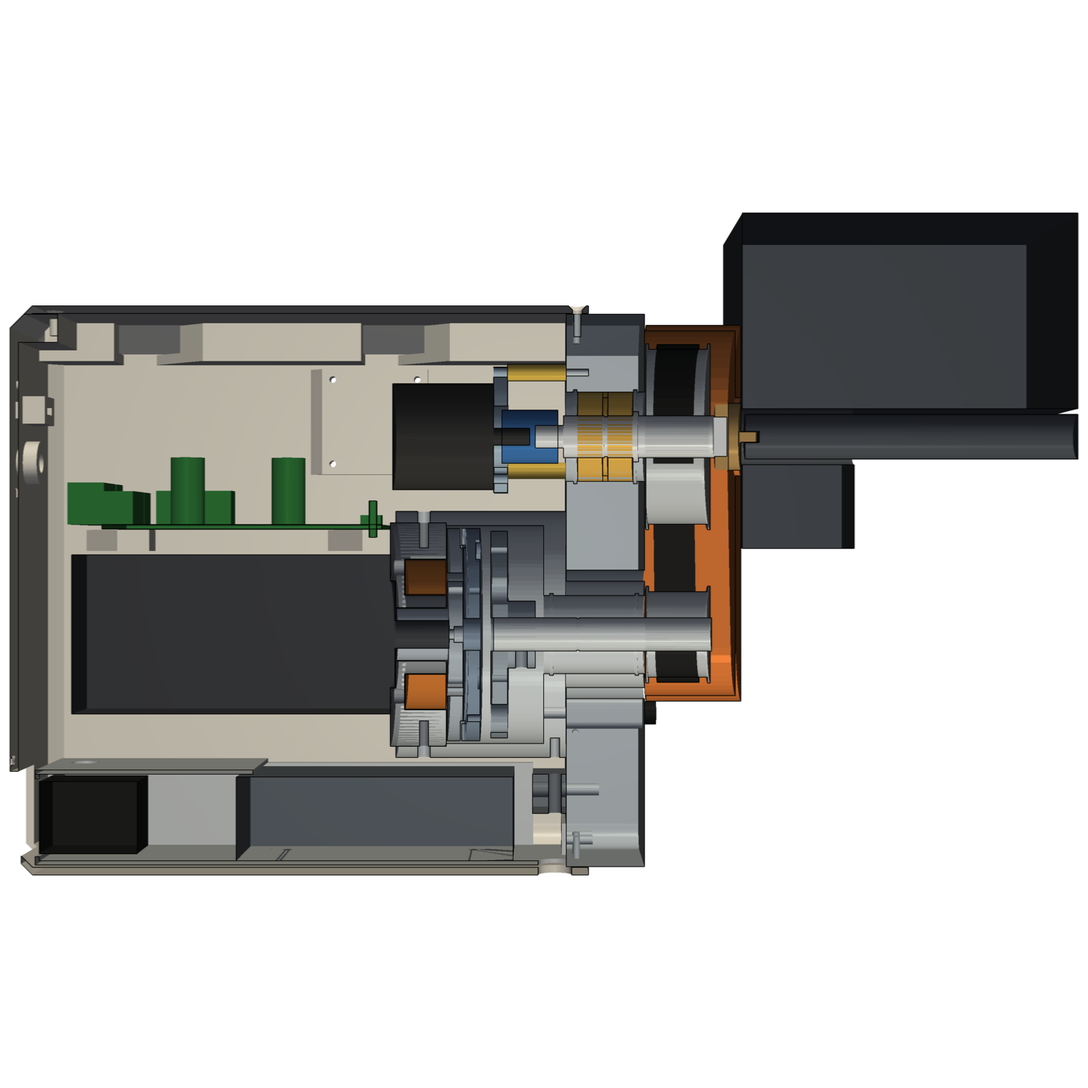
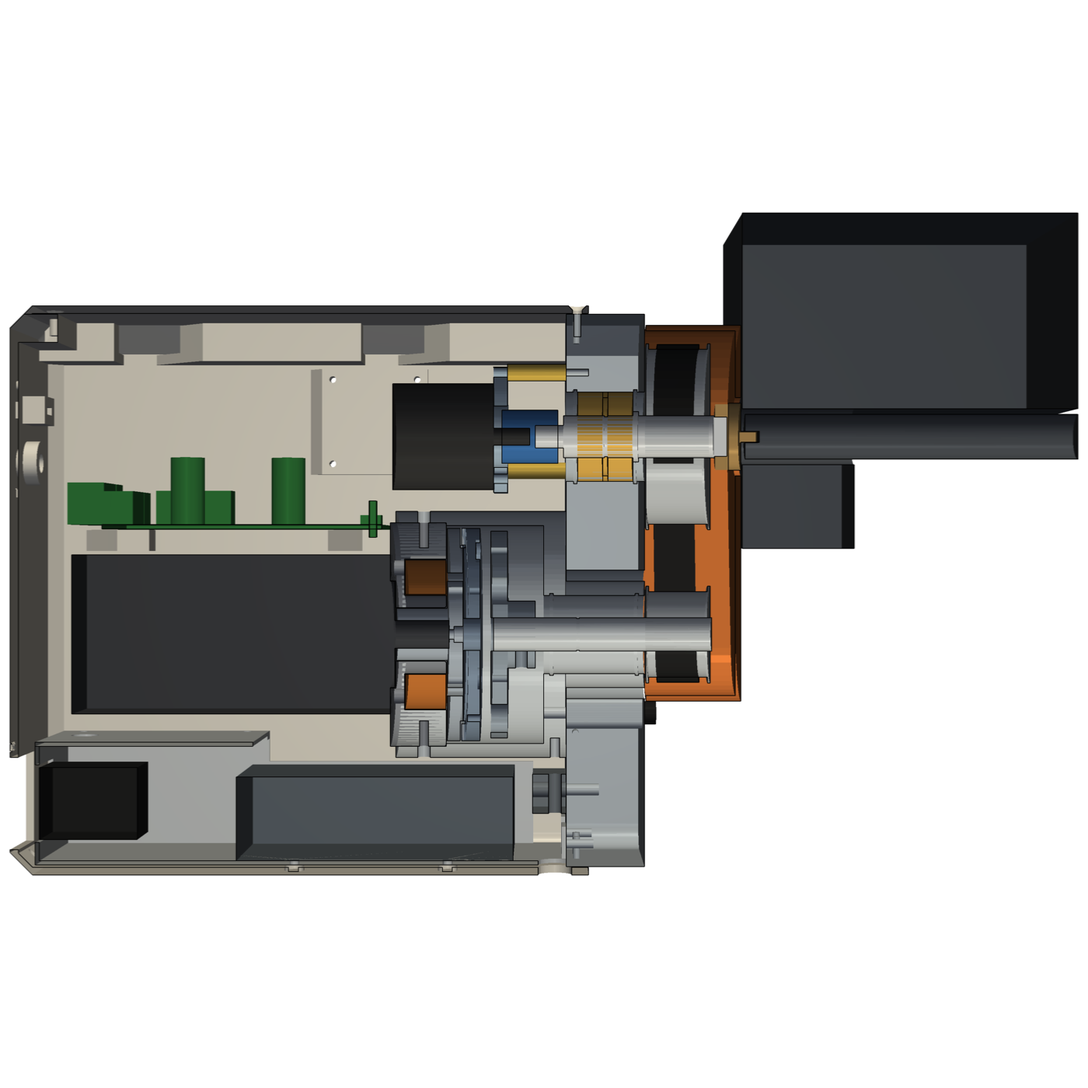
Mains tray review fixes: buildable tray, real LRS-75 geometry, louvred intake, drains, checks
- LRS-75-36 per Mean Well's drawing (99 x 97 x 30, two base M3 holes, max 3 mm): M3x4 button heads in floor pockets
- Tray tabs bolted at x -45/-13, clear of the shell's plate-edge screws and the drawbolt tool path
- Terminal/inlet zone 10 mm higher: inlet flange has 5.0 / 3.5 mm of flat sheet round it; lid on 4 M3 into rivnuts
  in inward-folded wall flanges; tray 104 wide, bottom long edges R8.5 so it fits the corners
- Motor intake as 45° louvre blocks on the back/front walls; 2 drains behind the inlet
- check_feed_unit.py: every plate hole against every other (negative-controlled on the old bolt positions), PSU
  screw heads vs the floor, inlet flange flat margin, tray/lid in the moving-module clearance list
- Notes: power-budget wording (jam at rapid can trip the PSU, safely), 36 V pair 300/500 V, PSU case in the heat test

Changed region(s): [[0.0, 0.645, 0.4607, 0.7371], [0.215, 0.7679, 0.5529, 0.7986], [0.0, 0.7679, 0.1536, 0.7986]]

diff --git a/mechanical/feed_unit/feed_unit.py b/mechanical/feed_unit/feed_unit.py
@@ -66,15 +66,18 @@ class F:
     circlip_land: float = 2.6        # material outside each plate groove (DIN 472-32 minimum edge margin)
     tension_slot: float = 3.0        # +- adjustment of the module along the centre line
     # --- built-in mains: an earthed, folded-aluminium MAINS TRAY under the clutch/motor module holds the 36 V supply
-    # (Mean Well LRS-75-36: 36 V 2.1 A, 99 x 82 x 30, terminals on one 82 mm end, toward the inlet) and a snap-in IEC
+    # (Mean Well LRS-75-36: 36 V 2.1 A, 99 x 97 x 30, case 240A; terminals 1 L, 2 N, 3 FG, 4 -V, 5 +V along one 97 mm
+    # end, toward the inlet; full load to 50 C ambient) and a snap-in IEC
     # C14 inlet (fuse + switch) clipped into the tray's own end face. All 230 V stays inside the earthed tray.
     psu_l: float = 99.0
-    psu_w: float = 82.0
+    psu_w: float = 97.0
     psu_h: float = 30.0
     psu_w0: float = 82.0             # W of the PSU's plate-side end (the tray starts at the plate face, W 63)
     psu_top_gap: float = 3.0         # tray top under the clutch cover with the module at the bottom of its tension slot
     tray_t: float = 1.5              # 5052 / 1050 aluminium sheet, folded
-    tray_side_gap: float = 4.0       # PSU side -> tray wall (convection + wiring)
+    tray_side_gap: float = 2.0       # PSU side -> tray wall
+    psu_holes: tuple = ((20.5, 45.5), (75.5, 45.5))   # base M3 (max 3 mm deep): from the terminal end, from one long edge
+    term_zone_rise: float = 10.0     # tray walls, end face and lid are this much higher over the terminal/inlet zone
     inlet_cut: tuple = (47.5, 27.8)  # snap-in IEC C14 + fuse + rocker switch, rated for 1-2 mm panels (check yours)
     inlet_flange: tuple = (50.0, 31.0)
     inlet_depth: float = 35.0        # its body behind the panel
@@ -377,19 +380,23 @@ W_SHELL0 = Z_PLATE_OUT - f.lap                      # open rim, on the plate edg
 RAIL = f.rail
 INSERT_D, INSERT_L = 4.0, 6.0                       # M3 x 5.7 heat-set insert hole
 R_IN = f.r_long - T                                 # inside radius of the long edges
+R_BOTTOM = 8.5                                      # the two bottom long edges: tighter, so the mains tray fits the corners
 W_END_SCREW = W_END - f.r_end - 4.0                 # end hood screws: countersunk heads fully on the flat, not the chamfer
-INLET_Y = (PSU_BOT + TRAY_TOP) / 2      # IEC inlet centre, in the tray's end face
+TERM_TOP = TRAY_TOP + f.term_zone_rise     # tray top over the terminal/inlet zone (the motor is >= 7 mm above)
+INLET_Y = (PSU_BOT + TERM_TOP) / 2         # IEC inlet centre, in the tray's end face
 TRAY_HALF = f.psu_w / 2 + f.tray_side_gap + f.tray_t
 TRAY_W1 = W_END - f.r_end - 1.0   # tray end face (inlet panel): clear of the shell's inside end chamfer; the inlet
                                   # sits recessed ~9 mm behind the end wall's opening (shielded from run-off coolant)
 TRAY_WALL_W0 = Z_PLATE_OUT + 12.0                # side walls start past the belt-tension block
-TRAY_BOLTS_X = (-38.0, -24.0)                 # flange bolts into the plate face, clear of the drawbolt hole (x 0)
+TRAY_BOLTS_X = (-45.0, -13.0)                 # flange bolts into the plate face: clear of the shell's plate-edge
+                                              # screws (x -35/-22), the drawbolt (x 0) and its tool path
 TRAY_FLANGE_Y = TRAY_BOT + 6.0
 GROMMET = (-30.0, TRAY_W1 - 12.0)             # (x, W) of the Ø10 grommet in the tray lid: 36 V leads up to J1
 USB_PORT = (15.0, 10.0)     # (x, y) on the end wall
 SWD_PORT = (-15.0, 10.0)
 BOOT_BTN = (-15.0, -9.0)    # 7 mm momentary buttons wired across the PCB's SW1 (BOOTSEL) and SW2 (RESET)
 RESET_BTN = (15.0, -9.0)
+INTAKE = dict(w0=145.0, w1=225.0, y0=-100.0, y1=-72.0)    # motor-air louvres, back and front walls
 FAN = dict(w0=115.0, w1=155.0, y0=-12.0, y1=28.0, x_in=XB + 4.5)   # 40 mm fan / louvre field on the back wall
 
 
@@ -459,29 +466,52 @@ def psu_placeholder():
     return psu, inlet
 
 
+def psu_screws():
+    """(x, W) of the PSU's two base screws (from Mean Well's drawing)."""
+    w_term = f.psu_w0 + f.psu_l
+    return [(-f.psu_w / 2 + e, w_term - d) for d, e in f.psu_holes]
+
+
 def mains_tray():
-    """Folded aluminium tray: floor + side walls + end face (inlet cut-out) + a flange bent up against the plate face
-    (2x M4: it is fixed AND earthed there), and a separate lid over the terminal/inlet zone. The PSU screws through
-    the floor into its base holes. Only the 36 V leads leave, through a grommet in the lid. No vents in the floor."""
+    """Folded aluminium tray: floor + side walls + end face (inlet cut-out) + 2 tabs bent up against the plate face
+    (2x M4: fixed AND earthed there), side walls and end face 10 mm higher over the terminal/inlet zone with inward
+    folded lid flanges, and a separate lid over that zone. The PSU screws through the floor into its base holes. Only
+    the 36 V leads leave, through a grommet in the lid. No vents in the floor."""
     t, hw = f.tray_t, TRAY_HALF
-    w0 = Z_PLATE_OUT                                 # flange against the plate's outer face
+    w0 = Z_PLATE_OUT
+    wz = f.psu_w0 + f.psu_l - 6                      # start of the raised terminal/inlet zone
     floor = bx(-hw, hw, TRAY_BOT, TRAY_BOT + t, w0, TRAY_W1)
-    walls = bx(-hw, -hw + t, TRAY_BOT, TRAY_TOP, TRAY_WALL_W0, TRAY_W1) + bx(hw - t, hw, TRAY_BOT, TRAY_TOP, TRAY_WALL_W0, TRAY_W1)
-    end = bx(-hw, hw, TRAY_BOT, TRAY_TOP, TRAY_W1 - t, TRAY_W1)
-    flange = bx(TRAY_BOLTS_X[0] - 8, TRAY_BOLTS_X[1] + 8, TRAY_BOT, TRAY_BOT + 13, w0, w0 + t)
-    tray = floor + walls + end + flange
+    walls = None
+    for sx in (-1, 1):
+        x0, x1 = (-hw, -hw + t) if sx < 0 else (hw - t, hw)
+        wall = bx(x0, x1, TRAY_BOT, TRAY_TOP, TRAY_WALL_W0, wz) + bx(x0, x1, TRAY_BOT, TERM_TOP, wz, TRAY_W1)
+        lx0, lx1 = (-hw, -hw + 8) if sx < 0 else (hw - 8, hw)          # flange folded inward at the top (lid screws)
+        lip = bx(lx0, lx1, TERM_TOP - t, TERM_TOP, wz, TRAY_W1 - t)
+        walls = wall + lip if walls is None else walls + wall + lip
+    end = bx(-hw, hw, TRAY_BOT, TERM_TOP, TRAY_W1 - t, TRAY_W1)
+    tray = floor + walls + end
+    for xt in TRAY_BOLTS_X:                          # two tabs bent up against the plate face
+        tray = tray + bx(xt - 7, xt + 7, TRAY_BOT, TRAY_BOT + 13, w0, w0 + t)
+        tray = tray - Pos(xt, TRAY_FLANGE_Y, w0 - 1) * Cylinder(2.2, t + 2, align=MIN)
     iw, ih = f.inlet_cut
     tray = tray - bx(-iw / 2, iw / 2, INLET_Y - ih / 2, INLET_Y + ih / 2, TRAY_W1 - t - 1, TRAY_W1 + 1)
-    for xt in TRAY_BOLTS_X:
-        tray = tray - Pos(xt, TRAY_FLANGE_Y, w0 - 1) * Cylinder(2.2, t + 2, align=MIN)
     tray = tray - ycyl(6.0, TRAY_BOT - 1, TRAY_BOT + t + 1, MX, Z_PLATE_OUT + 4)    # drawbolt access (outside the walls)
-    for xp in (-f.psu_w / 2 + 10, f.psu_w / 2 - 10):           # PSU base screws (M3, see Mean Well's max depth)
-        for wp in (f.psu_w0 + 15, f.psu_w0 + f.psu_l - 15):
-            tray = tray - ycyl(1.7, TRAY_BOT - 1, TRAY_BOT + t + 1, xp, wp)
-    lid_w0 = f.psu_w0 + f.psu_l - 6                            # overlaps the PSU's terminal cover end
-    lid = bx(-hw, hw, TRAY_TOP, TRAY_TOP + t, lid_w0, TRAY_W1)
-    lid = lid - ycyl(5.0, TRAY_TOP - 1, TRAY_TOP + t + 1, GROMMET[0], GROMMET[1])
+    for xp, wp in psu_screws():                      # PSU base screws: M3 x 4 button head (ISO 7380) from below
+        tray = tray - ycyl(1.7, TRAY_BOT - 1, TRAY_BOT + t + 1, xp, wp)
+    for xs in (-hw + 4, hw - 4):                     # lid screws: M3 into rivnuts in the folded lid flanges
+        for ws in (wz + 8, TRAY_W1 - 8):
+            tray = tray - ycyl(1.7, TERM_TOP - t - 1, TERM_TOP + 1, xs, ws)
+    lid = bx(-hw, hw, TERM_TOP, TERM_TOP + t, wz, TRAY_W1)
+    lid = lid - ycyl(5.0, TERM_TOP - 1, TERM_TOP + t + 1, GROMMET[0], GROMMET[1])
+    for xs in (-hw + 4, hw - 4):
+        for ws in (wz + 8, TRAY_W1 - 8):
+            lid = lid - ycyl(1.7, TERM_TOP - 1, TERM_TOP + t + 1, xs, ws)
     return tray, lid
+
+
+def psu_screw_heads():
+    """ISO 7380 M3 button heads (Ø5.7 x 1.65) under the tray floor, for the checks."""
+    return [ycyl(2.85, TRAY_BOT - 1.65, TRAY_BOT, xp, wp) for xp, wp in psu_screws()]
 
 
 def plug_wires():
@@ -505,7 +535,7 @@ LABELS = (("LEFT", 175.0, 28.0), ("STOP", 160.0, 28.0), ("RIGHT", 145.0, 28.0),
           ("RAPID", 140.0, -6.0), ("SPEED", 113.0, -6.0))
 
 
-def _rounded(x0, x1, y0, y1, w0, w1, r, c_tf, c_end, chamfer_back_top=False):
+def _rounded(x0, x1, y0, y1, w0, w1, r, c_tf, c_end, chamfer_back_top=False, r_bottom=None):
     """Box with its long edges filleted r, except the top-front one (and the top-back one if asked), which are 45-degree
     chamfers c_tf; the +W end edges chamfered c_end."""
     body = bx(x0, x1, y0, y1, w0, w1)
@@ -514,7 +544,12 @@ def _rounded(x0, x1, y0, y1, w0, w1, r, c_tf, c_end, chamfer_back_top=False):
     def is_ch(e):
         return e.center().Y > ym and (e.center().X > xm or chamfer_back_top)
     body = chamfer([e for e in body.edges().filter_by(Axis.Z) if is_ch(e)], c_tf)
-    body = fillet([e for e in body.edges().filter_by(Axis.Z) if not is_ch(e) and e.length > (w1 - w0) - 0.01], r)
+    longs = [e for e in body.edges().filter_by(Axis.Z) if not is_ch(e) and e.length > (w1 - w0) - 0.01]
+    rb = r if r_bottom is None else r_bottom
+    tops = [e for e in longs if e.center().Y > ym]
+    if tops:
+        body = fillet(tops, r)
+    body = fillet([e for e in body.edges().filter_by(Axis.Z) if e.center().Y < ym and e.length > (w1 - w0) - 0.01], rb)
     if c_end > 0:
         body = chamfer(body.edges().group_by(Axis.Z)[-1], c_end)
     return body
@@ -523,9 +558,9 @@ def _rounded(x0, x1, y0, y1, w0, w1, r, c_tf, c_end, chamfer_back_top=False):
 def outer_body():
     """The whole closed outer volume of the housing (before it is split into shell and hood). Every edge that lies on
     the print bed is a 45-degree chamfer (end wall for the shell, top-front edge for the hood); the rest are fillets."""
-    out = _rounded(XB - T, X_FP, Y0 - T, Y1 + T, W_SHELL0, W_END, f.r_long, f.r_long, f.r_end)
+    out = _rounded(XB - T, X_FP, Y0 - T, Y1 + T, W_SHELL0, W_END, f.r_long, f.r_long, f.r_end, r_bottom=R_BOTTOM)
     cav = _rounded(XB - G, XF + G, Y0 - G, Y1 + G, W_SHELL0 - 1, W_END - T, R_IN + G, CHAMFER_IN, max(f.r_end - T, 1.0),
-                   chamfer_back_top=True)
+                   chamfer_back_top=True, r_bottom=R_BOTTOM - T + G)
     return out - cav
 
 
@@ -577,7 +612,7 @@ def pcb_bosses():
 def shell():
     """Back, bottom, end and lower-front walls, rails, PCB bosses, louvres: one print standing on the end wall."""
     s = outer_body() - hood_region()
-    skin = _rounded(XB - T, X_FP, Y0 - T, Y1 + T, W_SHELL0, W_END, f.r_long, f.r_long, f.r_end)   # trims rails to the skin
+    skin = _rounded(XB - T, X_FP, Y0 - T, Y1 + T, W_SHELL0, W_END, f.r_long, f.r_long, f.r_end, r_bottom=R_BOTTOM)  # trims rails
     rail_w = (Z_PLATE_OUT, W_END - T)
     # back-top rail (hood screws) on the flat part of the top, tied to the back wall by a 4 mm shelf under it (its
     # section lies in the bed plane while the shell prints, so any shape prints)
@@ -605,9 +640,20 @@ def shell():
     # Motor air intake: slots along W in the back and front walls beside the motor (they face sideways, so falling
     # chips don't enter; in the print they run vertically)
     s = s - ycyl(6.0, Y0 - T - 1, Y0 + 1, MX, Z_PLATE_OUT + 4)
-    for yv in (-96.0, -89.0, -82.0, -75.0):
-        for x0_, x1_ in ((XB - T - 1, XB + 1), (XF - 1, X_FP + 1)):
-            s = s - bx(x0_, x1_, yv - 1.5, yv + 1.5, 145, 225)
+    # louvred like the exhaust: each slot climbs 45 degrees inward through a 5 mm block, so chips and coolant spray
+    # can't reach the mains tray below; the blocks have 45-degree undersides for printing
+    for sx in (-1, 1):
+        x_wall = XB - G if sx < 0 else XF + G
+        x_in = x_wall - 5.0 * sx
+        d = 5.0
+        s = s + xw_prism([(x_wall, INTAKE["w0"]), (x_in, INTAKE["w0"]), (x_in, INTAKE["w1"]), (x_wall, INTAKE["w1"] + d)],
+                         INTAKE["y0"], INTAKE["y1"])
+        for k in range(4):
+            y = INTAKE["y0"] + 5 + 6.0 * k
+            slot = Pos(x_wall + 2.0 * sx, y, (INTAKE["w0"] + INTAKE["w1"]) / 2) * Rot(0, 0, -45 * sx) * Box(14, 2.4, INTAKE["w1"] - INTAKE["w0"] - 4)
+            lim = bx(min(x_wall + 3.5 * sx, x_in) - 0.01, max(x_wall + 3.5 * sx, x_in) + 0.01, INTAKE["y0"] + 1, INTAKE["y1"] - 1,
+                     INTAKE["w0"] + 2, INTAKE["w1"] - 2)
+            s = s - (slot & lim)
     # back wall: louvred exhaust / 40 mm fan field, beside the encoder and the board's start, away from the fuse.
     # Each slot climbs 45 degrees inward through a 6 mm block, so a chip can't fall or bounce through. In the print
     # (W vertical) the slots lie in the horizontal plane: no overhang.
@@ -631,6 +677,10 @@ def shell():
     s = s - bx(-fw / 2 - 1, fw / 2 + 1, INLET_Y - fh / 2 - 1, INLET_Y + fh / 2 + 1, W_END - T - 1, W_END + 1)
     for xr_ in (-30.0, 30.0):
         s = s + bx(xr_ - 1.5, xr_ + 1.5, Y0 - G - 0.5, TRAY_BOT, TRAY_W1 - 60, TRAY_W1 - 6)
+    for xp, wp in psu_screws():                      # pockets for the PSU's M3 button heads under the tray floor
+        s = s - ycyl(3.5, Y0 - G - 1.5, Y0 + 0.1, xp, wp)
+    for xd in (-15.0, 15.0):                         # drains: coolant that gets in behind the inlet runs out
+        s = s - ycyl(2.0, Y0 - T - 8, Y0 + 6, xd, W_END - T - 2.5)
     # programming ports, usable with the box closed (above the plugs, clear of the end rails):
     #   USB-C: round nut-mount panel extension (e.g. Adafruit #6069, 12-18 mm hole), its male end left in J4
     #   SWD:   1x3 0.1" pin header pressed into a slot from outside, pins sunk in a recess; 3 wires inside to J3.
@@ -883,20 +933,24 @@ strip along the upper front with their bodies reaching back over the PCB.
 | Plugs | J1/J2/J5 MSTB plugs (≈13 mm) + ferrules: the wires run toward the end wall and turn down past the board's edge, behind the motor tail ({f.tail_clear:.0f} mm), checked with a plug + wire-bend envelope. Unplugging in place: slide the plug off, the wires have slack below |
 | Controls (strip, left → right as you face it) | E-stop (Ø60 legend ring fits on the flat face), LEFT/STOP/RIGHT toggle over RAPID, SPEED dial with the OLED above it; adapter board (2×7 IDC) on the strip's inside, ~200 mm ribbon down to J6 so the hood can be lifted and set beside the unit |
 | End wall | the mains inlet (recessed 9 mm, see Power), one M16 cable gland for the limit switches, low beside the motor. **Programming ports, usable with the box closed:** a Ø16 hole for a round nut-mount USB-C panel extension (e.g. Adafruit #6069; its male end stays in J4, plug body ≤ 12.4 × 6.6), **BOOT and RESET** buttons (7 mm momentary NO, recessed in Ø11 × 4 counterbores; solder 2 wires across the pads of SW1 / SW2 on the PCB, in parallel with them) and a recessed **SWD port** (1×3 0.1" header, SWCLK / GND / SWDIO like J3, pressed into the slot from outside with a drop of CA; solder 3 wires to its inner pins and run them to J3) |
-| Vents | intake slots in the bottom under the motor; exhaust through a louvre block high on the back wall, beside the encoder (slots climb 45° inward through 7.5 mm, so chips can't fall in), away from the fuse. The block takes a 40 mm fan (4× M3 self-tapping, 32 mm square) on its inside |
+| Vents | intake through louvre blocks on the back and front walls beside the motor (slots climb 45° inward, so chips and spray can't reach the mains tray); no floor vents; exhaust through a louvre block high on the back wall, beside the encoder (slots climb 45° inward through 7.5 mm, so chips can't fall in), away from the fuse. The block takes a 40 mm fan (4× M3 self-tapping, 32 mm square) on its inside |
 
 - **Power, built in: the mains tray.** All 230 V lives in an earthed, folded **aluminium tray** under the clutch and
-  motor ({2 * TRAY_HALF:.0f} wide, {TRAY_TOP - TRAY_BOT:.0f} high, W {Z_PLATE_OUT:.0f}…{TRAY_W1:.0f}; 1.5 mm 1050/5052 sheet: floor, two side walls, end face,
-  and a flange bent up against the plate). It holds:
-  - a Mean Well **LRS-75-36** (36 V / 2.1 A, 99 × 82 × 30), screwed through the tray floor into its base holes (M3;
-    keep to Mean Well's maximum screw depth), L/N/⏚ terminals toward the inlet, +V/−V on the same end;
+  motor ({2 * TRAY_HALF:.0f} wide, {TRAY_TOP - TRAY_BOT:.0f} high over the PSU and {TERM_TOP - TRAY_BOT:.0f} over the terminal/inlet zone, W {Z_PLATE_OUT:.0f}…{TRAY_W1:.0f}; 1.5 mm
+  1050/5052 sheet: floor, two side walls with inward-folded lid flanges over the terminal zone, end face, and two tabs
+  bent up against the plate). Fold drawing: `out/mains_tray.step` (+ `mains_tray_lid.step`). It holds:
+  - a Mean Well **LRS-75-36** (36 V / 2.1 A, 99 × 97 × 30, case 240A), screwed through the tray floor into its two
+    base holes: **M3 × 4 button head (ISO 7380)** — the case allows 3 mm of thread, the tray is 1.5 — whose heads sit in
+    Ø7 pockets in the printed floor. Terminals 1 L, 2 N, 3 FG, 4 −V, 5 +V, toward the inlet;
   - a **snap-in IEC C14 inlet with fuse and rocker switch** clipped into the tray's end face (cut-out
     {f.inlet_cut[0]} × {f.inlet_cut[1]}; pick one rated for a 1–2 mm panel). It sits 9 mm behind the printed end wall's opening, so
     coolant running down the end wall doesn't reach it. Fit an IEC retaining clip (V-lock or a wire bail) so the cord
     can't half-unplug on a vibrating table;
-  - a separate aluminium **lid** over the terminal/inlet zone (M3 self-tapping into the side walls), with a Ø10
-    grommet: the **only** thing that leaves the tray is the 36 V pair (1 mm², to J1).
-  - **Fixing and earth:** the tray's flange bolts to the plate's outer face (2× M4 into tapped holes): that holds it
+  - a separate aluminium **lid** over the terminal/inlet zone: 4× M3 into M3 rivnuts (or press nuts) in the walls'
+    folded flanges; the screws also bond the lid to the tray. A Ø10 grommet in it: the **only** thing that leaves the
+    tray is the 36 V pair (1 mm², 300/500 V insulation since it runs inside the mains tray, to J1).
+  - **Fixing and earth:** the tray's two tabs bolt to the plate's outer face (2× M4 into tapped holes; checked against
+    every other hole in the plate): that holds it
     and earths it. PE: inlet ⏚ → an M4 stud on the tray (ring terminal, star washer) → PSU ⏚. Leave both earth
     leads longer than L/N so they pull out last. Don't anodise the plate or the tray, or scrape the bond faces.
     Through the plate the motor (4 M5), the clutch (cover + housing screws), the encoder posts, the stub and the mill
@@ -906,12 +960,14 @@ strip along the upper front with their bodies reaching back over the PCB.
     its spade and its terminal, so one loose wire can't move. Wire the whole tray on the bench, lid on, before it
     goes in: the PSU terminals can't be reached with the motor above them.
   - **Fuse:** T 2 A ceramic (high breaking capacity) 5 × 20 for 230 V; T 3.15 A for 120 V.
-  - **Power budget:** 75 W is enough. Rapid traverse draws about 40–50 W; the worst moment is the clutch pull-in
-    (54 W for 50 ms) while the motor is at its 1 A hold current, about 60 W. If the LRS ever trips (overload or the
-    overvoltage latch, which needs a mains off/on to reset), the clutch springs release and the board shows `NO 36V`;
-    nothing restarts on its own.
-  - **No floor vents** (the tray is above the floor). The motor breathes through slots in the back and front walls
-    beside it; the PSU convects up out of the open tray (no lid over its body).
+  - **Power budget:** about 35–50 W at rapid traverse and about 60 W during the clutch pull-in (54 W for 50 ms with
+    the motor at its 1 A hold current); 75 W covers normal use. Only a jam at rapid (motor at full torque, ~100 W) can
+    trip the supply before stall detection acts. That is safe: if the LRS trips (overload, or the overvoltage latch,
+    which needs a mains off/on to reset), the clutch springs release and the board shows `NO 36V`; nothing restarts
+    on its own until the switch is centred.
+  - **No floor vents** (the tray is above the floor). The motor breathes through louvred slots in the back and front
+    walls beside it; the PSU convects up out of the open tray (its own perforated case is the cover there). Two Ø4
+    drains in the floor behind the inlet let out any coolant that gets past the recess.
   - The cord moves with the table: give it a loop or a cable chain, a P-clip on the unit and strain relief at the
     stand. The rocker switch is the mains switch; the E-stop removes the drive enable and the clutch, not mains.
   - **Before first power-up (commissioning):** with the cord unplugged, measure from the cord's earth pin to the plate,
@@ -930,7 +986,8 @@ strip along the upper front with their bodies reaching back over the PCB.
 - **Fuse:** lift the hood.
 - **Heat:** the motor is inside and the PCB sits above it. Default run current 3 A (~16 W in the coils), 1 A at standstill.
   PETG's glass transition is ~80 °C; the walls are ≥ 5.8 mm from the motor. On the bench, run it closed for 30 min:
-  if the motor case passes ~60 °C, fit the 40 mm fan (exhaust), lower `MOTOR mA` in the menu (light feeds need far
+  if the motor case passes ~60 °C or the PSU case passes ~60 °C (the LRS gives full power only up to 50 °C ambient;
+  it runs at about half load here), fit the 40 mm fan (exhaust), lower `MOTOR mA` in the menu (light feeds need far
   less), or reprint in ASA (needs an enclosure on the MK3S to print without warping).
 - **Order:**
   1. Plate: bearings, stub, clutch/motor module, encoder.

diff --git a/mechanical/tools/check_feed_unit.py b/mechanical/tools/check_feed_unit.py
@@ -52,7 +52,7 @@ for t in (-FU.f.tension_slot, 0.0, FU.f.tension_slot):
         print("  heads t=%+.0f vs %-12s overlap %.3f mm3, min dist %.2f" % (t, name, v, d))
 print("bad pairs incl. bolt heads", bad)
 # housing clearances: the clutch module moves +-tension_slot along the belt centre line, the housing does not
-housing_names = [n for n in parts if n in ("shell", "hood", "psu", "mains_inlet")]
+housing_names = [n for n in parts if n in ("shell", "hood", "psu", "mains_inlet", "mains_tray", "mains_tray_lid")]
 ux, uy = FU.math.cos(FU.ANG), FU.math.sin(FU.ANG)
 moving = ("motor", "clutch_cover", "clutch_field_housing", "pulley_20T")
 worst = {}
@@ -91,7 +91,8 @@ for n in ("shell", "hood"):
     if k != 1:
         bad += 1
 # nothing pokes through the outer skin (rails trimmed to it)
-skin = FU._rounded(FU.XB - FU.T, FU.X_FP, FU.Y0 - FU.T, FU.Y1 + FU.T, FU.W_SHELL0, FU.W_END, FU.f.r_long, FU.f.r_long, FU.f.r_end)
+skin = FU._rounded(FU.XB - FU.T, FU.X_FP, FU.Y0 - FU.T, FU.Y1 + FU.T, FU.W_SHELL0, FU.W_END, FU.f.r_long, FU.f.r_long, FU.f.r_end,
+                  r_bottom=FU.R_BOTTOM)
 for n in ("shell", "hood"):
     v = (parts[n] - skin).volume
     print("  %-5s outside the skin: %.3f mm3" % (n, v))
@@ -128,6 +129,43 @@ zone = FU.bx(-hw + t, hw - t, FU.TRAY_BOT + t, FU.TRAY_TOP, w_term, w_inlet)
 occ = sum((zone & parts[n]).volume for n in parts if n not in ("mains_tray", "mains_tray_lid") and not n.startswith("control_"))
 print("  mains wiring zone %.1f mm long, occupied %.3f mm3" % (w_inlet - w_term, occ))
 if w_inlet - w_term < 35 or occ > 1e-3:
+    bad += 1
+# tapped/drilled holes in the plate must not run into each other (screws are not in the solid models)
+from build123d import Cylinder as _Cy, Align as _Al
+def _hole(axis, x, y, w, r, depth):
+    if axis == "W":    # into the plate's outer face, toward -W
+        return Pos(x, y, w - depth) * _Cy(r, depth, align=(_Al.CENTER, _Al.CENTER, _Al.MIN))
+    pl = Plane(origin=(x, y, w), z_dir={"+Y": (0, 1, 0), "-Y": (0, -1, 0), "+X": (1, 0, 0), "-X": (-1, 0, 0)}[axis])
+    return Solid.make_cylinder(r, depth, pl)
+holes = []
+for xt in FU.TRAY_BOLTS_X:
+    holes.append(("tray bolt x%+.0f" % xt, _hole("W", xt, FU.TRAY_FLANGE_Y, FU.Z_PLATE_OUT, 1.75, 10)))
+for xt in (-15.0, 15.0):
+    holes.append(("tension-block M5 x%+.0f" % xt, _hole("W", FU.MX + xt, FU.TB_Y, FU.Z_PLATE_OUT, 2.1, 12)))
+for part_, target, pt, d, kind in FU.screw_joints():
+    if kind == "tap":
+        axis = {(0, 1, 0): "+Y", (0, -1, 0): "-Y", (1, 0, 0): "+X", (-1, 0, 0): "-X"}[tuple(d)]
+        start = tuple(pt[i] + d[i] * FU.T for i in range(3))
+        holes.append(("%s screw at (%.0f, %.0f)" % (part_, pt[0], pt[1]), _hole(axis, *start, 1.45, 8.5)))
+clashes = 0
+for (na, ha), (nb, hb) in itertools.combinations(holes, 2):
+    inter = ha & hb
+    if inter is not None and inter.volume > 1e-3:
+        clashes += 1
+        print("  HOLE CLASH: %s x %s" % (na, nb))
+print("  plate holes checked: %d, clashes %d" % (len(holes), clashes))
+bad += clashes
+# PSU base screw heads (ISO 7380 M3) sit in their floor pockets
+v = sum(getattr(h & parts["shell"], "volume", 0.0) or 0.0 for h in FU.psu_screw_heads())
+print("  PSU screw heads vs shell: %.3f mm3" % v)
+if v > 1e-3:
+    bad += 1
+# the snap-in inlet needs flat sheet all round its flange: >= bend (t) + 1.5 mm to the floor and to the lid fold
+t_ = FU.f.tray_t; fw, fh = FU.f.inlet_flange
+m_low = (FU.INLET_Y - fh / 2) - (FU.TRAY_BOT + t_)
+m_top = (FU.TERM_TOP - t_) - (FU.INLET_Y + fh / 2)
+print("  inlet flange flat margin: bottom %.1f, top %.1f mm (need >= %.1f)" % (m_low, m_top, t_ + 1.5))
+if min(m_low, m_top) < t_ + 1.5:
     bad += 1
 # print-bed fit (Prusa MK3S 250 x 210 x 210) in the STATED orientations, keeping 5 mm off each bed edge:
 #   shell standing on its end wall (print height = W extent), hood with the control strip face down (height = x extent)

diff --git a/mechanical/feed_unit/FEED_UNIT.md b/mechanical/feed_unit/FEED_UNIT.md
@@ -72,20 +72,24 @@ strip along the upper front with their bodies reaching back over the PCB.
 | Plugs | J1/J2/J5 MSTB plugs (≈13 mm) + ferrules: the wires run toward the end wall and turn down past the board's edge, behind the motor tail (19 mm), checked with a plug + wire-bend envelope. Unplugging in place: slide the plug off, the wires have slack below |
 | Controls (strip, left → right as you face it) | E-stop (Ø60 legend ring fits on the flat face), LEFT/STOP/RIGHT toggle over RAPID, SPEED dial with the OLED above it; adapter board (2×7 IDC) on the strip's inside, ~200 mm ribbon down to J6 so the hood can be lifted and set beside the unit |
 | End wall | the mains inlet (recessed 9 mm, see Power), one M16 cable gland for the limit switches, low beside the motor. **Programming ports, usable with the box closed:** a Ø16 hole for a round nut-mount USB-C panel extension (e.g. Adafruit #6069; its male end stays in J4, plug body ≤ 12.4 × 6.6), **BOOT and RESET** buttons (7 mm momentary NO, recessed in Ø11 × 4 counterbores; solder 2 wires across the pads of SW1 / SW2 on the PCB, in parallel with them) and a recessed **SWD port** (1×3 0.1" header, SWCLK / GND / SWDIO like J3, pressed into the slot from outside with a drop of CA; solder 3 wires to its inner pins and run them to J3) |
-| Vents | intake slots in the bottom under the motor; exhaust through a louvre block high on the back wall, beside the encoder (slots climb 45° inward through 7.5 mm, so chips can't fall in), away from the fuse. The block takes a 40 mm fan (4× M3 self-tapping, 32 mm square) on its inside |
+| Vents | intake through louvre blocks on the back and front walls beside the motor (slots climb 45° inward, so chips and spray can't reach the mains tray); no floor vents; exhaust through a louvre block high on the back wall, beside the encoder (slots climb 45° inward through 7.5 mm, so chips can't fall in), away from the fuse. The block takes a 40 mm fan (4× M3 self-tapping, 32 mm square) on its inside |
 
 - **Power, built in: the mains tray.** All 230 V lives in an earthed, folded **aluminium tray** under the clutch and
-  motor (93 wide, 32 high, W 63…253; 1.5 mm 1050/5052 sheet: floor, two side walls, end face,
-  and a flange bent up against the plate). It holds:
-  - a Mean Well **LRS-75-36** (36 V / 2.1 A, 99 × 82 × 30), screwed through the tray floor into its base holes (M3;
-    keep to Mean Well's maximum screw depth), L/N/⏚ terminals toward the inlet, +V/−V on the same end;
+  motor (104 wide, 32 high over the PSU and 42 over the terminal/inlet zone, W 63…253; 1.5 mm
+  1050/5052 sheet: floor, two side walls with inward-folded lid flanges over the terminal zone, end face, and two tabs
+  bent up against the plate). Fold drawing: `out/mains_tray.step` (+ `mains_tray_lid.step`). It holds:
+  - a Mean Well **LRS-75-36** (36 V / 2.1 A, 99 × 97 × 30, case 240A), screwed through the tray floor into its two
+    base holes: **M3 × 4 button head (ISO 7380)** — the case allows 3 mm of thread, the tray is 1.5 — whose heads sit in
+    Ø7 pockets in the printed floor. Terminals 1 L, 2 N, 3 FG, 4 −V, 5 +V, toward the inlet;
   - a **snap-in IEC C14 inlet with fuse and rocker switch** clipped into the tray's end face (cut-out
     47.5 × 27.8; pick one rated for a 1–2 mm panel). It sits 9 mm behind the printed end wall's opening, so
     coolant running down the end wall doesn't reach it. Fit an IEC retaining clip (V-lock or a wire bail) so the cord
     can't half-unplug on a vibrating table;
-  - a separate aluminium **lid** over the terminal/inlet zone (M3 self-tapping into the side walls), with a Ø10
-    grommet: the **only** thing that leaves the tray is the 36 V pair (1 mm², to J1).
-  - **Fixing and earth:** the tray's flange bolts to the plate's outer face (2× M4 into tapped holes): that holds it
+  - a separate aluminium **lid** over the terminal/inlet zone: 4× M3 into M3 rivnuts (or press nuts) in the walls'
+    folded flanges; the screws also bond the lid to the tray. A Ø10 grommet in it: the **only** thing that leaves the
+    tray is the 36 V pair (1 mm², 300/500 V insulation since it runs inside the mains tray, to J1).
+  - **Fixing and earth:** the tray's two tabs bolt to the plate's outer face (2× M4 into tapped holes; checked against
+    every other hole in the plate): that holds it
     and earths it. PE: inlet ⏚ → an M4 stud on the tray (ring terminal, star washer) → PSU ⏚. Leave both earth
     leads longer than L/N so they pull out last. Don't anodise the plate or the tray, or scrape the bond faces.
     Through the plate the motor (4 M5), the clutch (cover + housing screws), the encoder posts, the stub and the mill
@@ -95,12 +99,14 @@ strip along the upper front with their bodies reaching back over the PCB.
     its spade and its terminal, so one loose wire can't move. Wire the whole tray on the bench, lid on, before it
     goes in: the PSU terminals can't be reached with the motor above them.
   - **Fuse:** T 2 A ceramic (high breaking capacity) 5 × 20 for 230 V; T 3.15 A for 120 V.
-  - **Power budget:** 75 W is enough. Rapid traverse draws about 40–50 W; the worst moment is the clutch pull-in
-    (54 W for 50 ms) while the motor is at its 1 A hold current, about 60 W. If the LRS ever trips (overload or the
-    overvoltage latch, which needs a mains off/on to reset), the clutch springs release and the board shows `NO 36V`;
-    nothing restarts on its own.
-  - **No floor vents** (the tray is above the floor). The motor breathes through slots in the back and front walls
-    beside it; the PSU convects up out of the open tray (no lid over its body).
+  - **Power budget:** about 35–50 W at rapid traverse and about 60 W during the clutch pull-in (54 W for 50 ms with
+    the motor at its 1 A hold current); 75 W covers normal use. Only a jam at rapid (motor at full torque, ~100 W) can
+    trip the supply before stall detection acts. That is safe: if the LRS trips (overload, or the overvoltage latch,
+    which needs a mains off/on to reset), the clutch springs release and the board shows `NO 36V`; nothing restarts
+    on its own until the switch is centred.
+  - **No floor vents** (the tray is above the floor). The motor breathes through louvred slots in the back and front
+    walls beside it; the PSU convects up out of the open tray (its own perforated case is the cover there). Two Ø4
+    drains in the floor behind the inlet let out any coolant that gets past the recess.
   - The cord moves with the table: give it a loop or a cable chain, a P-clip on the unit and strain relief at the
     stand. The rocker switch is the mains switch; the E-stop removes the drive enable and the clutch, not mains.
   - **Before first power-up (commissioning):** with the cord unplugged, measure from the cord's earth pin to the plate,
@@ -119,7 +125,8 @@ strip along the upper front with their bodies reaching back over the PCB.
 - **Fuse:** lift the hood.
 - **Heat:** the motor is inside and the PCB sits above it. Default run current 3 A (~16 W in the coils), 1 A at standstill.
   PETG's glass transition is ~80 °C; the walls are ≥ 5.8 mm from the motor. On the bench, run it closed for 30 min:
-  if the motor case passes ~60 °C, fit the 40 mm fan (exhaust), lower `MOTOR mA` in the menu (light feeds need far
+  if the motor case passes ~60 °C or the PSU case passes ~60 °C (the LRS gives full power only up to 50 °C ambient;
+  it runs at about half load here), fit the 40 mm fan (exhaust), lower `MOTOR mA` in the menu (light feeds need far
   less), or reprint in ASA (needs an enclosure on the MK3S to print without warping).
 - **Order:**
   1. Plate: bearings, stub, clutch/motor module, encoder.
